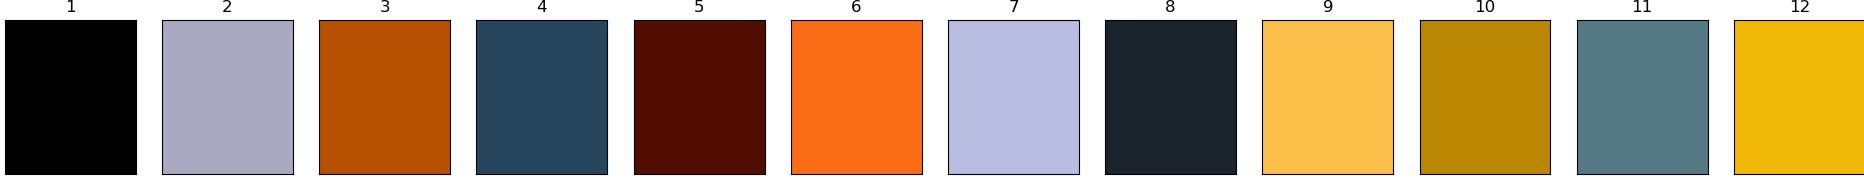
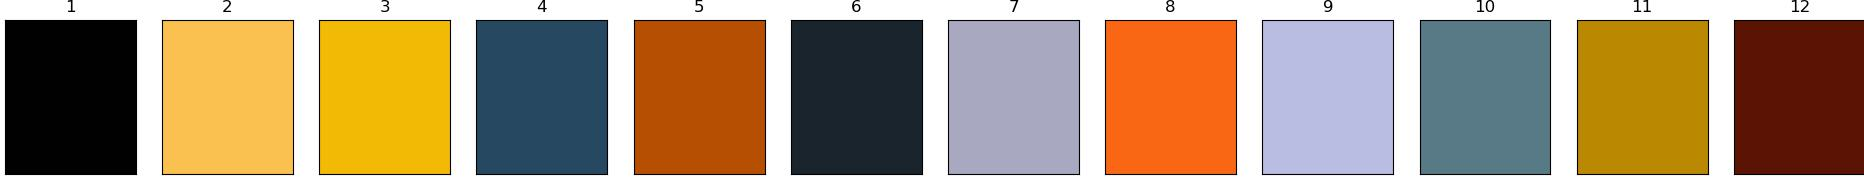
Reduced the amount of smoothening during preprocessing to improve the quality of the outputs.

diff --git a/pbn/paint_by_numbers.py b/pbn/paint_by_numbers.py
@@ -27,7 +27,7 @@ class PaintByNumbers:
             self.height, self.width, self.colors = self.img_array.shape
             print(self.height, self.width)
         median_img = cv2.medianBlur(self.img_array, 15)
-        self.processed_img = cv2.bilateralFilter(cv2.bilateralFilter(cv2.bilateralFilter(median_img, 30, 50, 50), 60, 50, 75), 90, 50, 50)
+        self.processed_img = cv2.bilateralFilter(cv2.bilateralFilter(median_img, 30, 30, 30), 60, 30, 30)
         plt.figure(figsize=(30,20))
         plt.imshow(self.processed_img)
         plt.margins(0,0)
@@ -117,7 +117,7 @@ class PaintByNumbers:
         plt.imshow(self.outlined_img, cmap='binary')
         for key in poly_dict:
             center = polylabel([poly_dict[key]], precision=0.1, with_distance=True)
-            if center[1] < 7.0:
+            if center[1] < 5.0:
                 plt.annotate(text=f"{labels_2d[poly_dict[key][0][0], poly_dict[key][0][1]]+1}",
                             xy = (center[0][1], center[0][0]),
                             xytext=(center[0][1]+35, center[0][0]-35),
@@ -126,10 +126,10 @@ class PaintByNumbers:
                             verticalalignment='center',
                             color="black",
                             alpha=0.6,
-                            fontsize=6.0,
+                            fontsize=5.0,
                             bbox=dict(boxstyle='circle', facecolor='white', edgecolor='black', alpha=0.6))
             else:
-                plt.text(x=center[0][1], y=center[0][0], s=f"{labels_2d[poly_dict[key][0][0], poly_dict[key][0][1]]+1}", horizontalalignment='center', verticalalignment='center', color="black", alpha=0.6, fontsize=6.0)
+                plt.text(x=center[0][1], y=center[0][0], s=f"{labels_2d[poly_dict[key][0][0], poly_dict[key][0][1]]+1}", horizontalalignment='center', verticalalignment='center', color="black", alpha=0.6, fontsize=5.0)
         plt.margins(0,0)
         plt.gca().xaxis.set_major_locator(plt.NullLocator())
         plt.gca().yaxis.set_major_locator(plt.NullLocator())

diff --git a/examples/test.py b/examples/test.py
@@ -2,7 +2,7 @@ import matplotlib.pyplot as plt
 from pbn.paint_by_numbers import PaintByNumbers
 
 
-IMAGE_PATHS = ["still_life"]
+IMAGE_PATHS = ["still_life", "beach_landscape", "madiba", "cobra", "toucan"]
 
 for image in IMAGE_PATHS:
     still_life_obj = PaintByNumbers(img_path=f"./images/{image}.jpg", num_of_colors=12)

diff --git a/setup.py b/setup.py
@@ -1,6 +1,6 @@
 from setuptools import setup
 
-VERSION = '0.0.8' 
+VERSION = '0.1.0' 
 DESCRIPTION = 'Paint By Numbers Creator'
 LONG_DESCRIPTION = 'Convert any image into a printable paint by numbers.'
 
